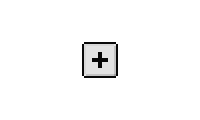
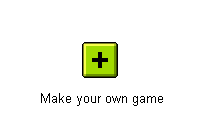
Improved make your own game box

Changed region(s): [[0.39, 0.35, 0.6, 0.65], [0.18, 0.775, 0.84, 0.9]]

diff --git a/index.php b/index.php
@@ -144,9 +144,9 @@
 		<div class = "GameInfo">
 
 			<img src = "http://www.gamepainter.net/make-game.png" alt = "Add Game - Make Your Own Game"/>
-			
 
-			<b><a href = "http://www.gamepainter.net/fFJKHD86vh2461">Make Your Own Game</a></b>
+
+			<?php /* <b><a href = "http://www.gamepainter.net/fFJKHD86vh2461">Make Your Own Game</a></b> */ ?>
 			<div class = "gamedesc">Create your own 2D game, publish it for free on Game Painter and invite friends to play it.</div>
 			<div class = "gamestat">0 plays - now</div>
 		</div>
